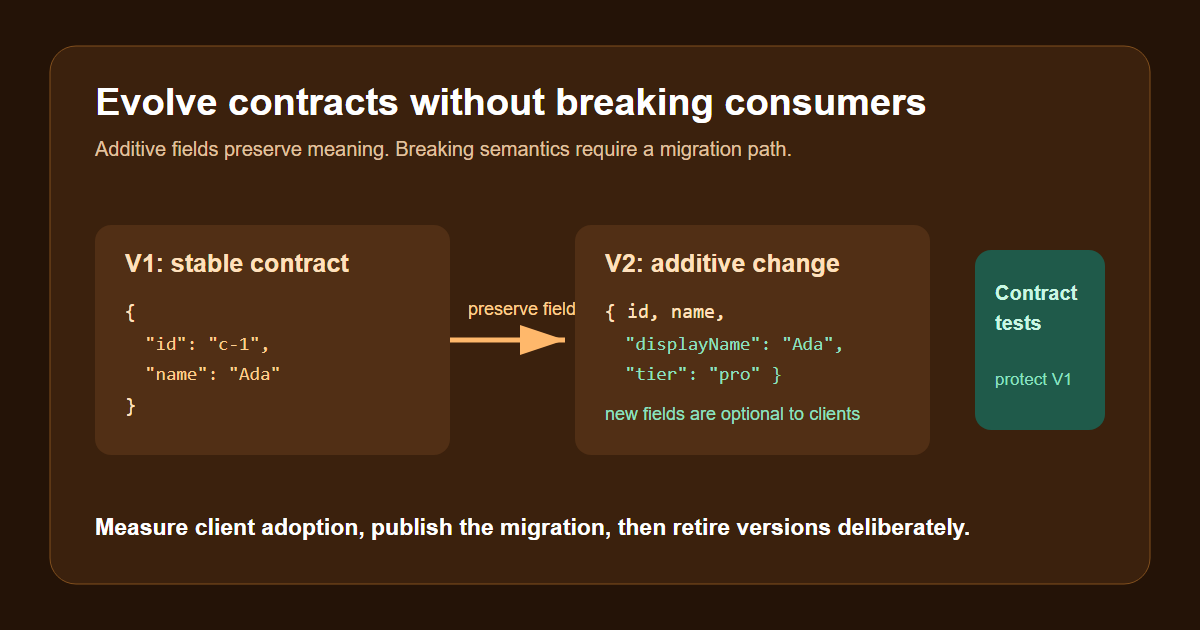
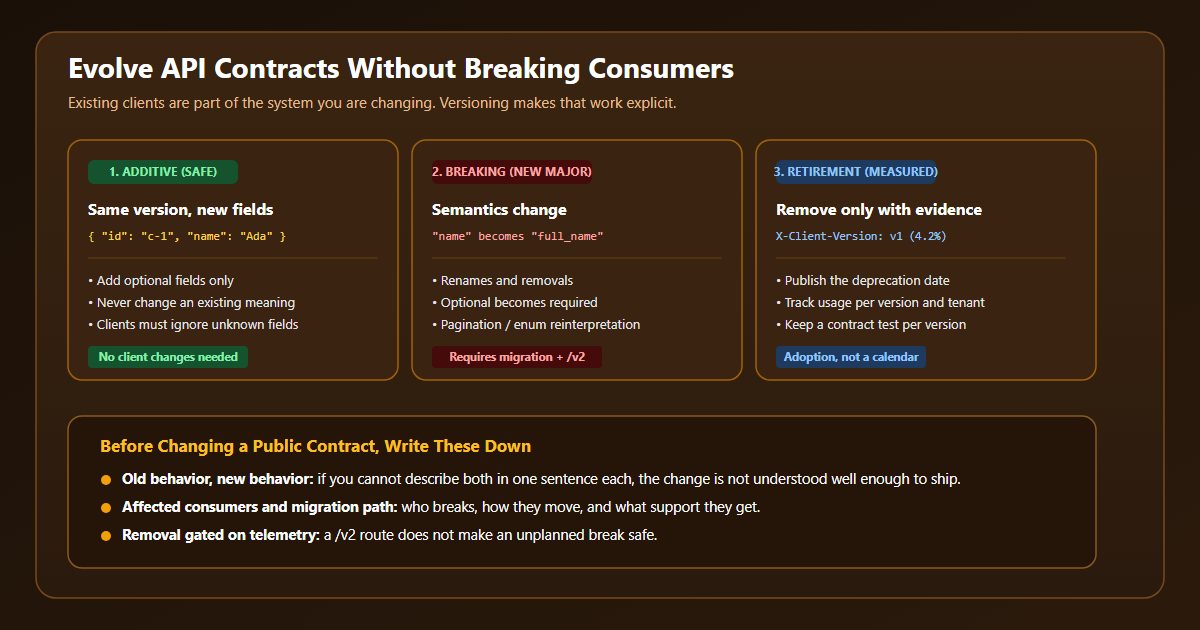
Enhance versioned API infographic and article copy

Changed region(s): [[0.0308, 0.0302, 0.9558, 0.9651], [0.9558, 0.1206, 0.9867, 0.8746]]

diff --git a/posts/05-versioned-api-contracts.md b/posts/05-versioned-api-contracts.md
@@ -2,26 +2,72 @@
 
 ![API version workflow](graphics/05-versioned-api-contracts.svg)
 
-Changing a public API is not a refactor. Existing consumers are part of the system being changed.
+API versioning is not primarily about adding `/v2` to a URL.
 
-The safest evolution is additive. Add a field, preserve the old fields and their meaning, and make consumers tolerant of fields they do not understand. Incompatible changes, such as renaming a field or changing pagination semantics, require a new version and a migration plan.
+It is about treating existing consumers as part of the system you are changing.
 
-In the demo, V1 returns:
+## Breaking changes are rarely obvious
+
+Most outages caused by API changes do not come from a dramatic rewrite. They come from small semantic shifts:
+
+- Renaming a field
+- Changing a field from optional to required
+- Altering a default value
+- Reordering assumptions in a response
+- Changing pagination semantics
+- Reinterpreting an existing enum value
+
+Each one looks harmless in a pull request and each one can break a client silently.
+
+## Evolve additively first
+
+The safest change is one that adds without redefining:
 
 ```json
-{"id":"c-1","name":"Ada Lovelace"}
+// V1 - and still V1 after the change
+{ "id": "c-1", "name": "Ada Lovelace" }
+
+// Additive: same version, new optional fields
+{ "id": "c-1", "name": "Ada Lovelace", "displayName": "Ada", "tier": "pro" }
 ```
 
-V2 adds `displayName` and `tier` while preserving `id` and `name`. The V1 contract test stays in the repository to prevent a future implementation from accidentally leaking V2-only semantics into the stable contract.
+Rules that make this work:
 
-Versioning is not permission to ignore adoption. Before removing a version, publish the deadline, document the migration, measure active client versions, and contact any remaining important consumers. A route named `/v2` does not make an unplanned breaking change safe.
+- Add fields rather than replacing them
+- Keep existing defaults stable
+- Make consumers tolerant of unknown fields and values
+- Introduce new enum values carefully, and document how old clients behave
 
-Run the demonstration:
+A new major version is appropriate when the contract must change incompatibly. Versioning does not remove migration work — it makes that work explicit and manageable.
+
+## Retirement is a measured decision
+
+A `/v2` route does not make removal safe. Before retiring a version:
+
+- Publish the deprecation date and migration guide
+- Measure which clients still call the old version, by tenant where possible
+- Keep a contract test per version so no one accidentally "cleans up" V1
+- Contact remaining important consumers before the cutoff
+
+The strongest API teams maintain compatibility as long as practical, publish clear deprecation paths, and use real client telemetry to decide when an old version can retire.
+
+## Hands-on demonstration
+
+The demo serves both versions and includes a contract test that fails if V1 changes.
+
+```bash
+cd 05-versioned-api-contracts
+go test ./...
+go run .
+```
+
+Output:
 
 ```text
-cd 05-versioned-api-contracts
+/v1/customers/c-1 -> map[id:c-1 name:Ada Lovelace]
+/v2/customers/c-1 -> map[displayName:Ada id:c-1 name:Ada Lovelace tier:pro]
 ```
 
 Source: https://github.com/ArpitUS/linkedin-engineering-demos/tree/master/05-versioned-api-contracts
 
-Practical takeaway: protect every public version with a consumer-visible contract test, and use observed client adoption rather than an arbitrary date to decide when retirement is safe.
+Practical takeaway: before changing a public contract, write down the old behavior, the new behavior, affected consumers, the migration path, and the removal date — then enforce the old version with a test.
